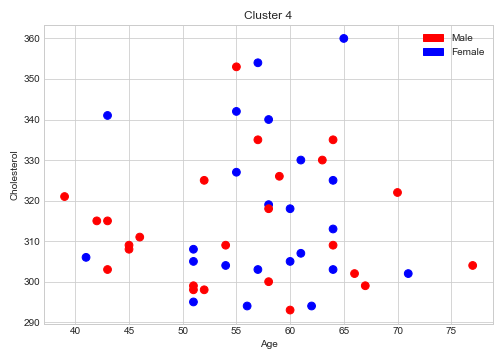
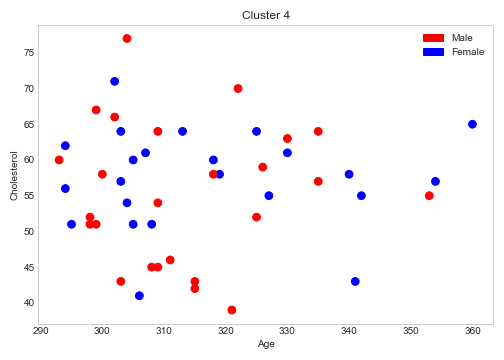
Fixed a few methods - Data optimized for single cluster analysis

diff --git a/ML - TCC - Clusters/tcc_ml_analysis/single_cluster_analysis.py b/ML - TCC - Clusters/tcc_ml_analysis/single_cluster_analysis.py
@@ -7,6 +7,7 @@ Created on Tue Jun 19 14:09:56 2018
 import numpy as np
 import pandas as pd
 import matplotlib.pyplot as plot
+from sklearn import mixture
 
 #import dataset
 dataset = pd.read_csv('cleveland.csv')
@@ -18,10 +19,8 @@ hc = AgglomerativeClustering(
     n_clusters = 4, affinity = 'euclidean', linkage='ward')
 y_hc = hc.fit_predict(X)
 
-plot.scatter(X[y_hc == 0, 0], X[y_hc == 0, 1], s = 100, c = 'red', label = 'Cluster 1')
-plot.scatter(X[y_hc == 1, 0], X[y_hc == 1, 1], s = 100, c = 'blue', label = 'Cluster 2')
-plot.scatter(X[y_hc == 2, 0], X[y_hc == 2, 1], s = 100, c = 'green', label = 'Cluster 3')
-plot.scatter(X[y_hc == 3, 0], X[y_hc == 3, 1], s = 100, c = 'black', label = 'Cluster 4')
+# Plot
+plot.scatter(X[:, 0], X[:, 1], s = 100, c = y_hc)
 
 # Plot Info
 plot.title('Clusters')
@@ -53,3 +52,9 @@ print(mean_list)
 
 # Print STD Deviation
 print(deviation_list)
+'''
+
+gmm = mixture.GaussianMixture(n_components=4)
+gmm.fit(X)
+y_hc = gmm.predict(X)
+plot.scatter(X[:, 0], X[:, 1], s = 100, c = y_hc, label = 'Cluster 1')'''

diff --git a/ML - TCC - Clusters/tcc_ml_analysis/cluster_analysis.py b/ML - TCC - Clusters/tcc_ml_analysis/cluster_analysis.py
@@ -16,7 +16,7 @@ dataset = pd.read_csv('cleveland.csv')
 # Allocate Columns
 # Prediction: 0 - Sex, 4 - Cholesterol
 # Label:      1 - Gender
-X = dataset.iloc[:, [0, 4, 1]].values
+X = dataset.iloc[:, [4, 0, 1]].values
 
 # Dendogram Analysis - Cluster Number Decision Tool
 # Expects: Data Array, Method, Run(Bool)
@@ -44,6 +44,7 @@ while plt_idx < len(data_matrix):
     plotInfo = ['Cluster ' + str(plt_idx + 1), 'Age', 'Cholesterol']
     get_plot(data_matrix[plt_idx][0], data_matrix[plt_idx][1], 60, data_matrix[plt_idx][2], plotInfo)
     plt_idx += 1
+
 
 #print(np.mean(data_matrix[1]))
 #print(np.std(data_matrix[1]))

diff --git a/ML - TCC - Clusters/tcc_ml_analysis/visuals.py b/ML - TCC - Clusters/tcc_ml_analysis/visuals.py
@@ -32,7 +32,7 @@ def get_plot(dm0, dm1, size, dmC, plotInfo):
        
         # Data Information
         ax.scatter(dm0, dm1, s = size, c = dmC, cmap = plt.cm.bwr)        
-        
+        ax.grid(False)
         # Annotations
         #for x, y, name, gen in zip(age, cholesterol, gender, gender):
         #    ax.text(x, y, name, color=plot.cm.bwr(gen),
